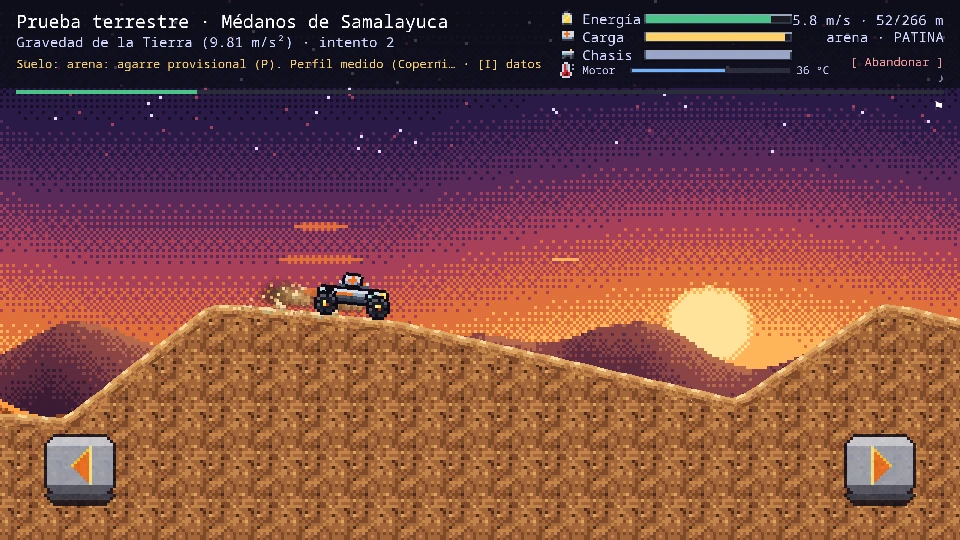
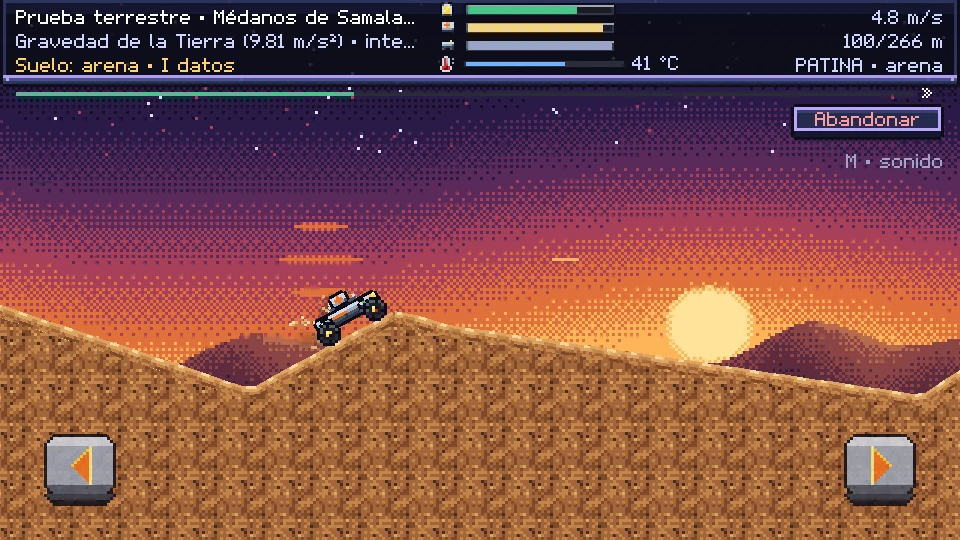
informe: landing con enlace a «Detalles técnicos» y capturas del juego actualizadas
- Menú y portada enlazan a #detalles; al llegar por enlace o con #detalles en la dirección,
  la sección se abre completa (para compartirla).
- Capturas nuevas del Expediente, Taller, Prueba y Misión.

diff --git a/informe/divulgacion/src/main.js b/informe/divulgacion/src/main.js
@@ -361,11 +361,27 @@ document.addEventListener('click', (ev) => {
   const destino = id ? document.getElementById(id) : null;
   if (!destino) return;
   ev.preventDefault();
-  const offset = id === 'inicio' || (pantallaCompleta.has(id) && modoPantalla.matches) ? 0 : -72;
+  if (id === 'detalles') abrirDetalles();
+  const offset = 0;   // Lenis ya respeta scroll-padding-top (la barra) y el scroll-margin de las secciones de pantalla completa
   if (lenis) lenis.scrollTo(destino, { offset, duration: 1.4 });
   else destino.scrollIntoView({ block: 'start' });
   history.replaceState(null, '', `#${id}`);
 });
+
+/* ── «Detalles técnicos» se abre completo al llegar por enlace o con #detalles en la dirección (para compartirla) ── */
+function abrirDetalles() { document.querySelectorAll('#detalles details').forEach((d) => { d.open = true; }); }
+function irADetallesSiHace() {
+  if (location.hash !== '#detalles') return;
+  abrirDetalles();
+  const destino = document.getElementById('detalles');
+  // al abrirse cambia la altura de la página: se baja hasta ahí cuando ya está acomodada, sin animación
+  requestAnimationFrame(() => requestAnimationFrame(() => {
+    if (lenis) lenis.scrollTo(destino, { offset: 0, immediate: true, force: true });
+    else destino.scrollIntoView({ block: 'start' });
+  }));
+}
+addEventListener('hashchange', irADetallesSiHace);
+addEventListener('load', irADetallesSiHace);
 
 /* ── El cartel cabe en una pantalla: si no cabe, achica las ilustraciones; si aun así no cabe, se lee bajando ── */
 const museo = document.getElementById('museo');

diff --git a/informe/divulgacion/index.html b/informe/divulgacion/index.html
@@ -26,7 +26,7 @@
       <span>Marsception</span>
     </a>
     <nav class="indice" aria-label="Secciones" data-t-aria="indiceAria">
-      <a href="#como" data-t="navComo">Cómo se juega</a><a href="#destinos" data-t="navDestinos">Destinos</a><a href="#ciencia" data-t="navCiencia">La ciencia</a><a href="#business" data-t="navBiz">For Business</a><a href="#metodo" data-t="navDatos">Datos</a>
+      <a href="#como" data-t="navComo">Cómo se juega</a><a href="#destinos" data-t="navDestinos">Destinos</a><a href="#ciencia" data-t="navCiencia">La ciencia</a><a href="#detalles" data-t="navDetalles">Detalles técnicos</a><a href="#business" data-t="navBiz">For Business</a><a href="#metodo" data-t="navDatos">Datos</a>
     </nav>
     <div class="ajustes">
       <a class="boton boton-chico" href="https://v1.marsception.us/" data-t="navJugar">Jugar</a>
@@ -68,6 +68,7 @@
           <li class="inicio-entra" style="--orden:6" data-t="paso3c">Pruébalo en la Tierra</li>
           <li class="inicio-entra" style="--orden:6.5" data-t="paso4c">Lánzalo</li>
         </ol>
+        <a class="inicio-detalles inicio-entra" style="--orden:7" href="#detalles"><span data-t="verDetalles">Detalles técnicos: cifras, fuentes y validación</span> <span aria-hidden="true">→</span></a>
       </div>
     </section>
 

diff --git a/informe/divulgacion/src/estilos.css b/informe/divulgacion/src/estilos.css
@@ -1172,3 +1172,16 @@ html.lenis, html.lenis body { scroll-behavior: auto; }
     linear-gradient(180deg, rgba(13, 5, 28, 0.35), transparent 30%);
 }
 .museo-aportes .kn-pie { text-shadow: 0 1px 8px rgba(7, 6, 10, 0.9); }
+
+/* Enlace discreto a «Detalles técnicos» en la portada (no compite con «Jugar ahora») */
+.inicio-detalles {
+  display: inline-flex; align-items: center; gap: 0.4rem; min-height: 44px; margin-top: 1rem; padding: 0 0.4rem;
+  font: 500 0.78rem/1.3 var(--mono); letter-spacing: 0.04em; color: #c9c3d6; text-decoration: underline;
+  text-decoration-color: rgba(201, 195, 214, 0.35); text-underline-offset: 0.3em; transition: color 160ms ease, text-decoration-color 160ms ease;
+}
+@media (hover: hover) and (pointer: fine) { .inicio-detalles:hover { color: #ffffff; text-decoration-color: currentColor; } }
+.inicio-detalles:focus-visible { outline: 2px solid var(--foco); outline-offset: 2px; border-radius: 6px; }
+/* El menú con una entrada más: se aprieta un poco y, en anchos medios, «Destinos» se esconde */
+.indice { gap: 0.1rem; }
+.indice a { padding: 0.55rem 0.55rem; }
+@media (max-width: 1240px) { .indice a[href="#destinos"] { display: none; } }

diff --git a/informe/divulgacion/src/textos.js b/informe/divulgacion/src/textos.js
@@ -11,6 +11,8 @@ export const EN = {
   navDestinos: 'Destinations',
   navCiencia: 'The science',
   navDatos: 'Data',
+  navDetalles: 'Technical details',
+  verDetalles: 'Technical details: figures, sources and validation',
   apTitulo: 'What we found and what we contribute',
   apEncT: 'What we found',
   apE1: '<strong>Mines fool the shape score.</strong> Among the 25 holes that look most alike by shape, 14 are open-pit mines.',
